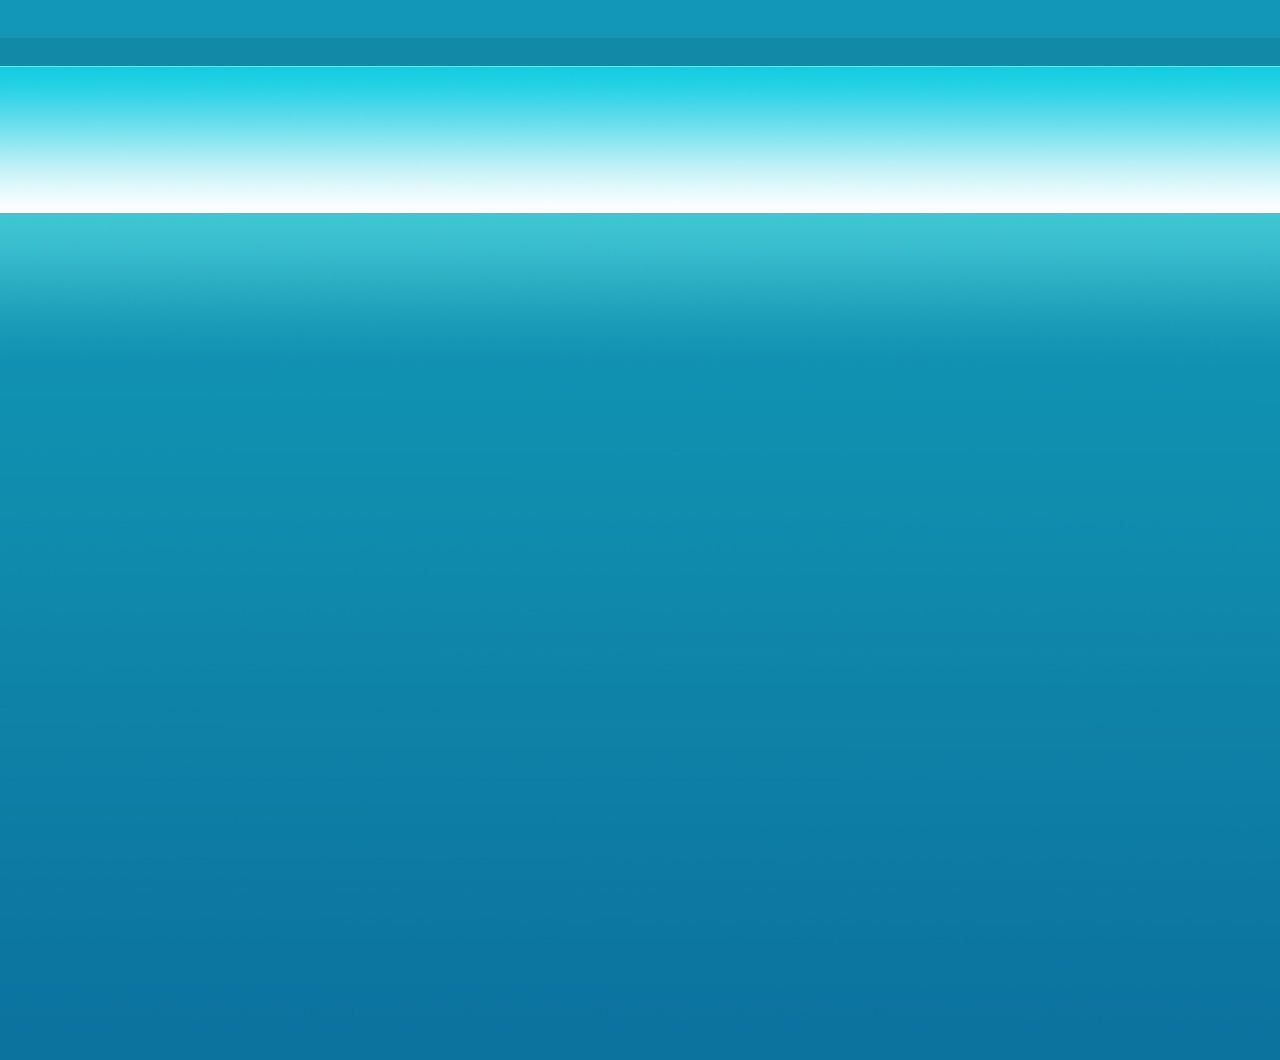
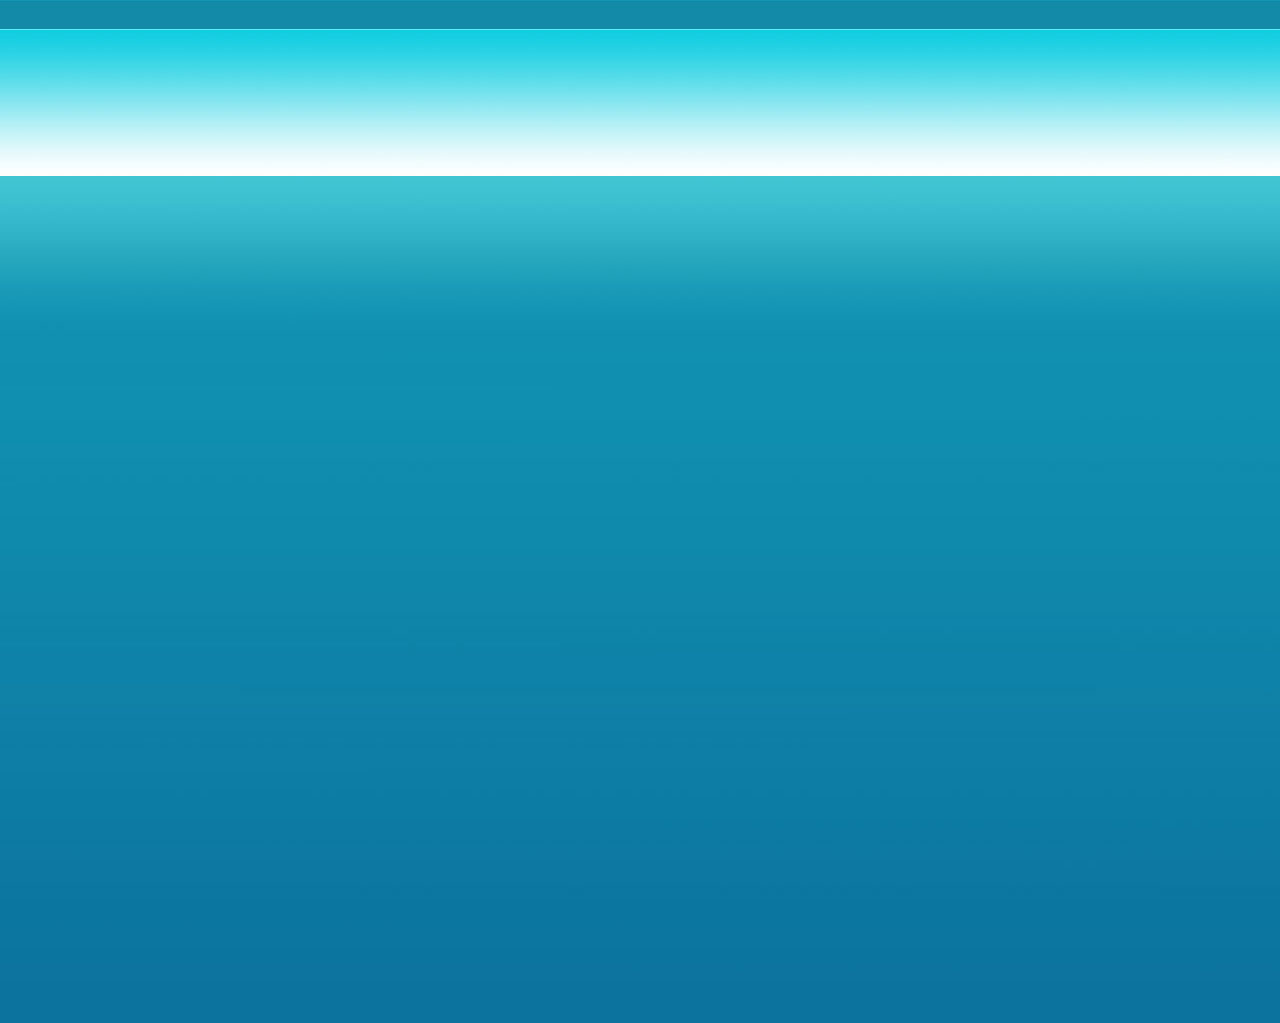
changed mistakes

Changed region(s): [[0.0, 0.0303, 1.0, 0.2121]]

diff --git a/index.html b/index.html
@@ -7,118 +7,101 @@
 	<title>Asia Holidays Maldives</title>
 </head>
 <body>
-		<div class="googlebar">
-		    <img src="img/googlebar.jpg" alt="Google">
-		</div>
 
-<div class="container">
-	
-	<header>
-
-		<div class="logo">
-		    <a href="img/logo.jpg" target="_blank">
-			<img src="img/logo.jpg" alt="Asia holidays logo"></a>
-		</div>
-
-		<div class="text">
-		    Путешествия по Азии
-		</div>
+	<div class="container">
+		<header>
+           	<h1 class="trip">Путешествия по Азии</h1>
+		
+			<div class="logo">
+			    <a href="img/logo.jpg" target="_blank">
+				<img src="img/logo.jpg" alt="Asia holidays logo"></a>
+			</div>
 		
 			<ul class="info">
-			<li>Наши контакты:</li>
-			<li>+9-098-765-4321</li>
-			<li>+9-0123-456-890</li>
-			<li>info@asia-holidays.com</li>
+				<li>Наши контакты:</li>
+				<li>+9-098-765-4321</li>
+				<li>+9-0123-456-890</li>
+				<li>info@asia-holidays.com</li>
 			</ul>
 
 			<ul class="countries">
-			<li><a href="img/india.jpg" target="_blank"><img src="img/india.jpg" alt="india">Индия</a></li>
-			<li><a href="img/nepal.jpg" target="_blank"><img src="img/nepal.jpg" alt="nepal">Непал</a></li>
-			<li><a href="img/tibet.jpg" target="_blank"><img src="img/tibet.jpg" alt="tibet">Тибет</a></li>
-			<li><a href="img/butan.jpg" target="_blank"><img src="img/butan.jpg" alt="butan">Бутан</a></li>
-			<li><a href="img/shrilanka.jpg" target="_blank"><img src="img/shrilanka.jpg" alt="shrilanka">Шри-Ланка</a></li>
-			<li><a href="img/maldivs.jpg" target="_blank"><img src="img/maldivs.jpg" alt="maldivs">Мальдивы</a></li>
+				<li><a href="img/india.jpg" target="_blank"><img src="img/india.jpg" alt="india">Индия</a></li>
+				<li><a href="img/nepal.jpg" target="_blank"><img src="img/nepal.jpg" alt="nepal">Непал</a></li>
+				<li><a href="img/tibet.jpg" target="_blank"><img src="img/tibet.jpg" alt="tibet">Тибет</a></li>
+				<li><a href="img/butan.jpg" target="_blank"><img src="img/butan.jpg" alt="butan">Бутан</a></li>
+				<li><a href="img/shrilanka.jpg" target="_blank"><img src="img/shrilanka.jpg" alt="shrilanka">Шри-Ланка</a></li>
+				<li><a href="img/maldivs.jpg" target="_blank"><img src="img/maldivs.jpg" alt="maldivs">Мальдивы</a></li>
 			</ul>
 			
-	</header>
-
-	
+		</header>
 		
 		<div class="photocontent">
 			<img class="photo" src="img/photo.jpg" alt="sea">
 		</div>	
 
-	<div class="nav">
+		<div class="nav">
+			<ul class="menu">
+			    <li><a href=#>Главная</a></li>
+			    <li><a href=#>Путешествие <img src="img/tri.png" alt="tri"></a>
+			    	<ul class="submenu">
+			            <li><a href=#>Путешествие 1</a></li>
+			            <li><a href=#>Путешествие 2</a></li>
+			            <li><a href=#>Путешествие 3</a></li>
+			            <li><a href=#>Путешествие 4</a></li>
+			            <li><a href=#>Путешествие 5</a></li>
+			        </ul>
+			    </li>
+			    <li><a href=#>Услуги <img src="img/tri.png" alt="tri"></a>
+			        <ul class="submenu">
+			            <li><a href=#>Услуги 1</a></li>
+			            <li><a href=#>Услуги 2</a></li>
+			            <li><a href=#>Услуги 3</a></li>
+			            <li><a href=#>Услуги 4</a></li>
+			            <li><a href=#>Услуги 5</a></li>
+			        </ul>
+			    </li>
+			    <li><a href=#>Партнерам <img src="img/tri.png" alt="tri"></a>
+			        <ul class="submenu">
+			            <li><a href=#>Партнерам 1</a></li>
+			            <li><a href=#>Партнерам 2</a></li>
+			            <li><a href=#>Партнерам 3</a></li>
+			            <li><a href=#>Партнерам 4</a></li>
+			            <li><a href=#>Партнерам 5</a></li>
+			        </ul>
+			    </li>
+			    <li><a href=#>Отзывы клиентов</a></li>
+			    <li><a href=#>О нас</a></li>
+			    <li><a href=#>Контакты</a></li>
+			</ul>
+		</div>	
 
-	<ul class="menu">
-    <li><a href=#>Главная</a>
-        
-    </li>
-    <li><a href=#>Путешествие <img src="img/tri.png" alt="india"></a>
-        <ul class="submenu">
-            <li><a href=#>Путешествие 1</a></li>
-            <li><a href=#>Путешествие 2</a></li>
-            <li><a href=#>Путешествие 3</a></li>
-            <li><a href=#>Путешествие 4</a></li>
-            <li><a href=#>Путешествие 5</a></li>
-        </ul>
-    </li>
+		<div class="content">
+ 	        
+ 	        <div class="leftcolumn">
+			    <h2>Информация</h2>
+				    <p>Lorem ipsum dolor sit amet 
+				    Lorem ipsum dolor sit amet 
+				    Lorem ipsum dolor sit amet 
+				    Lorem ipsum dolor sit amet
+				    Lorem ipsum dolor sit amet
+					Lorem ipsum dolor sit amet
+					Lorem ipsum dolor sit amet
+					Lorem ipsum dolor sit amet</p>
+			</div>
 
-    <li><a href=#>Услуги <img src="img/tri.png" alt="india"></a>
-        <ul class="submenu">
-            <li><a href=#>Услуги 1</a></li>
-            <li><a href=#>Услуги 2</a></li>
-            <li><a href=#>Услуги 3</a></li>
-            <li><a href=#>Услуги 4</a></li>
-            <li><a href=#>Услуги 5</a></li>
-        </ul>
-    </li>
+		    <div class="centercolumn">
+		    <p>Lorem ipsum dolor sit amet Lorem ipsum dolor sit amet Lorem ipsum dolor sit amet Lorem ipsum dolor sit amet Lorem ipsum dolor sit amet Lorem ipsum dolor sit amet Lorem ipsum dolor sit amet Lorem ipsum dolor sit amet Lorem ipsum dolor sit amet Lorem ipsum dolor sit amet Lorem ipsum dolor sit amet Lorem ipsum dolor sit amet Lorem ipsum dolor sit amet</p>
+		    </div>
 
-    <li><a href=#>Партнерам <img src="img/tri.png" alt="india"></a>
-        <ul class="submenu">
-            <li><a href=#>Партнерам 1</a></li>
-            <li><a href=#>Партнерам 2</a></li>
-            <li><a href=#>Партнерам 3</a></li>
-            <li><a href=#>Партнерам 4</a></li>
-            <li><a href=#>Партнерам 5</a></li>
-        </ul>
-    </li>
-    <li><a href=#>Отзывы клиентов</a></li>
-    <li><a href=#>О нас</a></li>
-    <li><a href=#>Контакты</a></li>
-	</ul>
-	</div>	
+		    <div class="rightcolumn">
+			    <h2>Новости</h2>
+					<p>Lorem ipsum dolor sit amet Lorem ipsum dolor sit amet Lorem ipsum dolor sit amet Lorem ipsum dolor sit amet Lorem ipsum dolor sit amet Lorem ipsum dolor sit amet Lorem ipsum dolor sit amet Lorem ipsum dolor sit amet Lorem ipsum dolor sit amet Lorem ipsum dolor sit amet Lorem ipsum dolor sit amet Lorem ipsum dolor sit amet Lorem ipsum dolor sit amet Lorem ipsum dolor sit amet Lorem ipsum dolor sit amet Lorem ipsum dolor sit amet Lorem ipsum dolor sit amet Lorem ipsum dolor sit amet Lorem ipsum dolor sit amet Lorem ipsum dolor sit amet Lorem ipsum dolor sit amet</p>
+			</div>
 
-
-	<div class="fon"> <!-- блок-родитель -->
-
-	   <div class="leftColumn">
-	   <h2>Информация</h2>
-	    <p>Lorem ipsum dolor sit amet 
-	    Lorem ipsum dolor sit amet 
-	    Lorem ipsum dolor sit amet 
-	    Lorem ipsum dolor sit amet
-	    Lorem ipsum dolor sit amet
-		Lorem ipsum dolor sit amet
-		Lorem ipsum dolor sit amet
-		Lorem ipsum dolor sit amet
-		</p>
-
-	   </div>
-	   <div class="centerColumn">
-	    <p></p>
-	    
-	   </div>
-
-	   <div class="rightColumn">
-	   <h2>Новости</h2>
-		<p>Lorem ipsum dolor sit amet Lorem ipsum dolor sit amet Lorem ipsum dolor sit amet Lorem ipsum dolor sit amet Lorem ipsum dolor sit amet Lorem ipsum dolor sit amet Lorem ipsum dolor sit amet Lorem ipsum dolor sit amet Lorem ipsum dolor sit amet Lorem ipsum dolor sit amet Lorem ipsum dolor sit amet Lorem ipsum dolor sit amet Lorem ipsum dolor sit amet Lorem ipsum dolor sit amet Lorem ipsum dolor sit amet Lorem ipsum dolor sit amet Lorem ipsum dolor sit amet Lorem ipsum dolor sit amet Lorem ipsum dolor sit amet Lorem ipsum dolor sit amet Lorem ipsum dolor sit amet</p>
-	   </div>
-
-	</div>
+		</div>
 
 		
-</div> 
+	</div> 
 
 	<footer>
     Copyright(C) asia-holidays.com. 2010

diff --git a/css/style.css b/css/style.css
@@ -1,25 +1,16 @@
 
 body {
-  position: absolute;
   background-image: url("../img/background.jpg");
   background-repeat: no-repeat;
-  width: 1280px;
-  height: 1060px;
+  background-size: cover;
+  /*background-attachment: fixed;*/
   font-size: 14px;
-}
-
-.googlebar {
-  position: absolute;
-  margin: 0px;
-  width: 1280px;
-  height: 38px;
 }
 
 .container {
   background-color: #ffffff;
   position: relative;
   margin: 0 auto;
-  margin-top: 38px;
   width: 1000px;
   height: 990px;
   box-shadow: 0px 4px 3px 3px rgba(0, 0, 0, .6); 
@@ -28,7 +19,20 @@ body {
 header {
   position: relative; 
   width: auto;
-  height: 175px;
+  height: 176px;
+}
+
+.trip {
+  position: absolute;
+  margin: 0px;
+  margin-top: 110px;
+  margin-left: 100px;
+  z-index: 1;
+}
+
+h1 {
+ color: #128aa7;
+ font-size: 14px;
 }
 
 .logo {
@@ -57,13 +61,6 @@ header {
   border-bottom: 1px;
   border-style: solid;
   border-color: #128aa7;
-}
-
-.text {
-  position: absolute; 
-  margin-top: 110px;
-  margin-left: 100px;
-  color: #128aa7;
 }
 
 .contacts {
@@ -196,53 +193,51 @@ header {
   text-decoration: none;
 }
 
-.fon {
-margin-top: 267px;
-width: 1000px;
-height: 548px;
-overflow: hidden; /* чтобы лишее обрезалось */
+.content {
+  margin-top: 267px;
+  width: 1000px;
+  height: 548px;
+  overflow: hidden; 
 }
 
-.leftColumn {
-width: 208px;
-float: left;
-background: #edeef0;
-padding-bottom: 20000px;
-margin-bottom: -20000px;
-border-left: 1px solid #c7cacf;
-border-right: 1px solid #c7cacf;
-text-align: center;
+.leftcolumn {
+  width: 208px;
+  float: left;
+  background: #edeef0;
+  padding-bottom: 20000px;
+  margin-bottom: -20000px;
+  border-left: 1px solid #c7cacf;
+  border-right: 1px solid #c7cacf;
+  text-align: center;
 }
 
-.centerColumn {
-width: 576px;
-float: left;
-background: #ffffff;
-padding-bottom: 20000px;
-margin-bottom: -20000px;
-text-align: center;
+.centercolumn {
+  width: 580px;
+  float: left;
+  background: #ffffff;
+  padding-bottom: 20000px;
+  margin-bottom: -20000px;
+  text-align: center;
 }
 
-.rightColumn {
-width: 210px;
-float: left;
-background: #edeef0;
-padding-bottom: 20000px;
-margin-bottom: -20000px;
-border-left: 1px solid #c7cacf;
-border-right: 1px solid #c7cacf;
-text-align: center;
+.rightcolumn {
+  width: 208px;
+  float: left;
+  background: #edeef0;
+  padding-bottom: 20000px;
+  margin-bottom: -20000px;
+  border-left: 1px solid #c7cacf;
+  border-right: 1px solid #c7cacf;
+  text-align: center;
 }
 
 footer {
-  position: relative;
-  display: table-cell;
-  margin: 0; 
-  width: 1280px;
-  height: 31px;
+  margin: 0;
+  color: white;
+  font-size: 12px;
   text-align: center;
-  color: #ffffff;
-  vertical-align: middle;
+  margin-bottom: 10px;
+  margin-top: 10px;
 }
 
 p {
